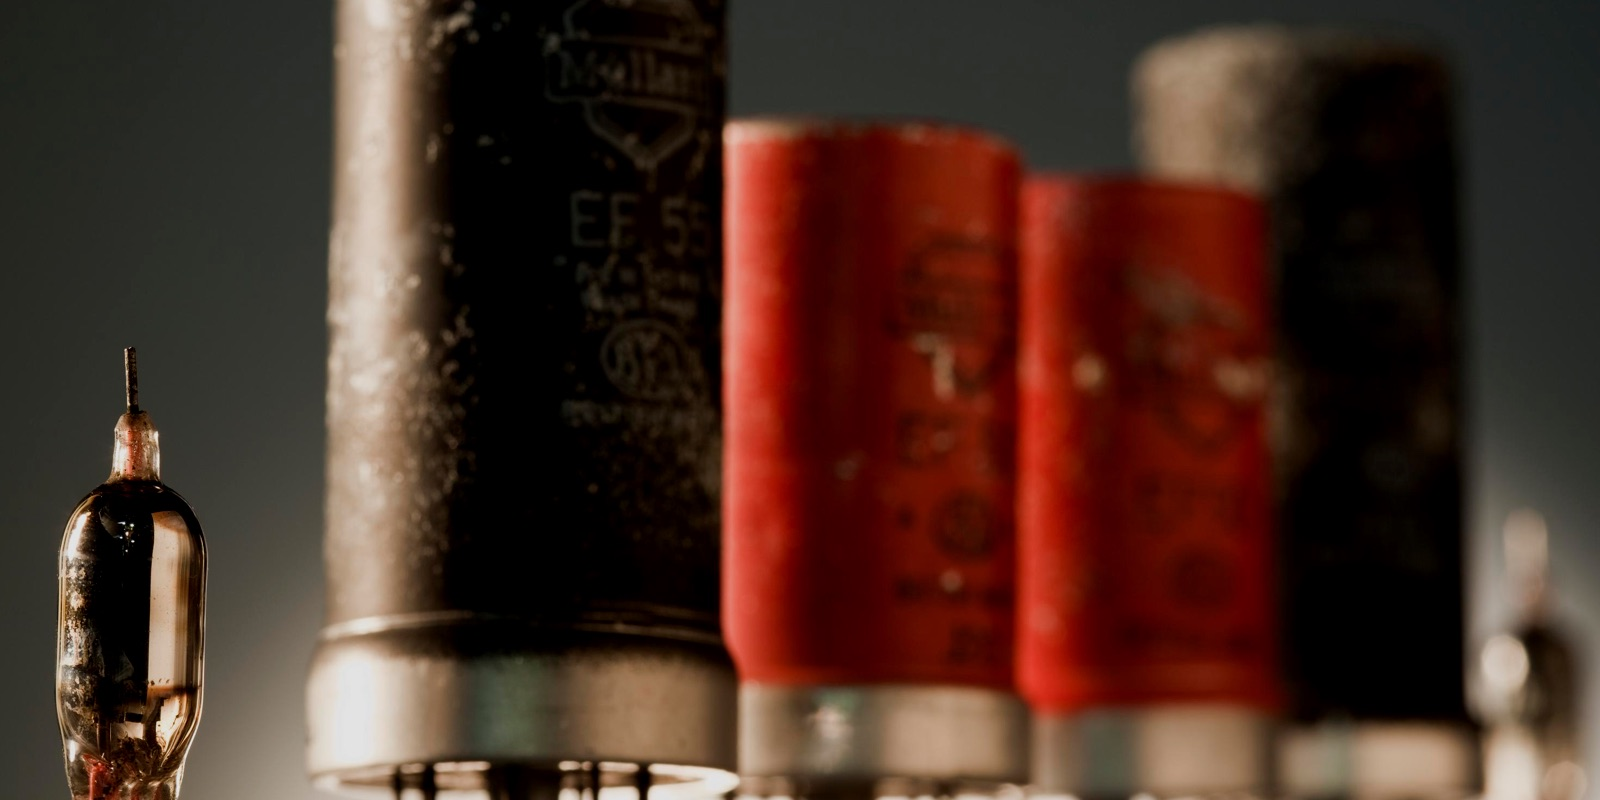
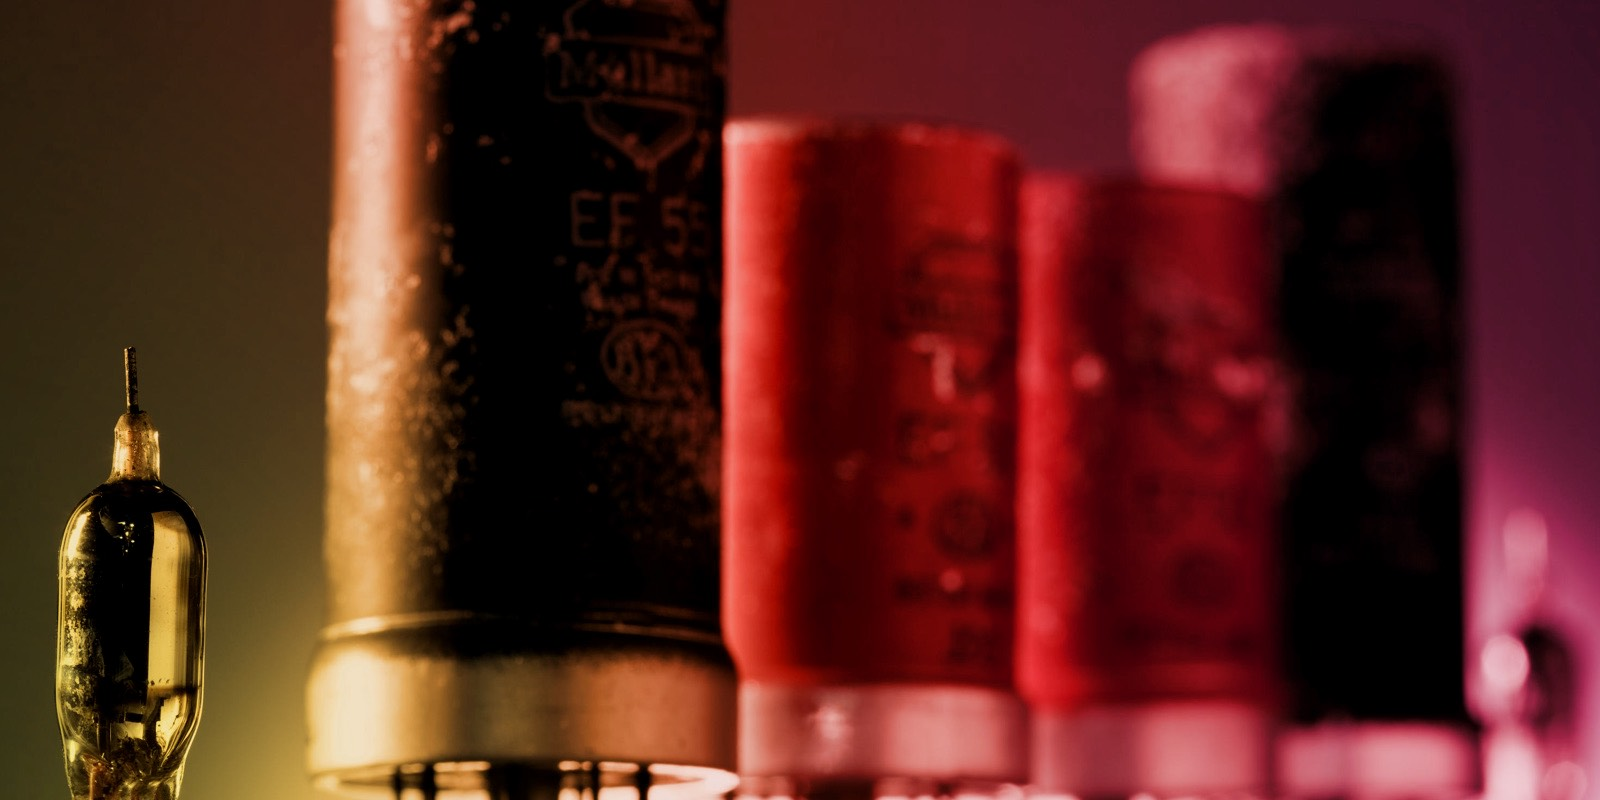
update home page feature images with new (gradiated) ones

diff --git a/templates/pages/home.html b/templates/pages/home.html
@@ -14,12 +14,9 @@
 
 <section class="home-features">
   {{!-- update /client/styles/components/_home.scss if no of images changes --}}
-  <img src="/assets/img/home/feature/1600/1878-0005_0004_A163_0002.jpg" srcset="/assets/img/home/feature/800/1878-0005_0004_A163_0002.jpg 800w, /assets/img/home/feature/1600/1878-0005_0004_A163_0002.jpg 1600w" />
-  <img src="/assets/img/home/feature/1600/1911-0346_0014.jpg" srcset="/assets/img/home/feature/800/1911-0346_0014.jpg 800w, /assets/img/home/feature/1600/1911-0346_0014.jpg 1600w" />
-  <img src="/assets/img/home/feature/1600/cd0274_008_070301.jpg" srcset="/assets/img/home/feature/800/cd0274_008_070301.jpg 800w, /assets/img/home/feature/1600/cd0274_008_070301.jpg 1600w" />
-  <img src="/assets/img/home/feature/1600/cd0634_030_100924_1988_242.jpg" srcset="/assets/img/home/feature/800/cd0634_030_100924_1988_242.jpg 800w, /assets/img/home/feature/1600/cd0634_030_100924_1988_242.jpg 1600w" />
-  <img src="/assets/img/home/feature/1600/cd0705_056_130311_1972_29.jpg" srcset="/assets/img/home/feature/800/cd0705_056_130311_1972_29.jpg 800w, /assets/img/home/feature/1600/cd0705_056_130311_1972_29.jpg 1600w" />
-  <img src="/assets/img/home/feature/1600/DS080056-61487.jpg" srcset="/assets/img/home/feature/800/DS080056-61487.jpg 800w, /assets/img/home/feature/1600/DS080056-61487.jpg 1600w" />
+  {{#each headerImages}}
+    <img src="/assets/img/home/feature/1600/{{this}}" srcset="/assets/img/home/feature/800/{{this}} 800w, /assets/img/home/feature/1600/{{this}} 1600w" />
+  {{/each}}
 
   <div class="row columns">
     <h2 class="home-features__intro">{{{intro}}}</h2>

diff --git a/fixtures/data.js b/fixtures/data.js
@@ -3,6 +3,14 @@ module.exports = {
   titlePage: 'Science Museum Group Collection',
   strap: 'Search our collection',
   intro: 'Explore over 250,000 objects and archives from the Science Museum, Museum of Science and Industry, National Science and Media Museum and National Railway Museum.',
+  headerImages: [
+    'handley.jpg',
+    'textile-sign.jpg',
+    'switches.jpg',
+    '1878-0005_0004_A163_0002.jpg',
+    'cd0634_030_100924_1988_242',
+    'cd0274_008_070301.jpg'
+  ],
   collectionGroup: [{
     title: 'See what’s on display',
     collection: [{

diff --git a/client/styles/components/_home.scss b/client/styles/components/_home.scss
@@ -148,8 +148,10 @@
   &__h {
     font-size: 1.5rem;
     @include breakpoint(medium up) { font-size: 2rem; }
+    @include breakpoint(large up) { font-size: 2.5rem; }
     line-height: 1;
     text-transform: uppercase;
-    margin-bottom: 1em;
+    margin: 0 0 1em 0;
+    @include breakpoint(medium up) { margin: 1em 0; }
   }
 }
